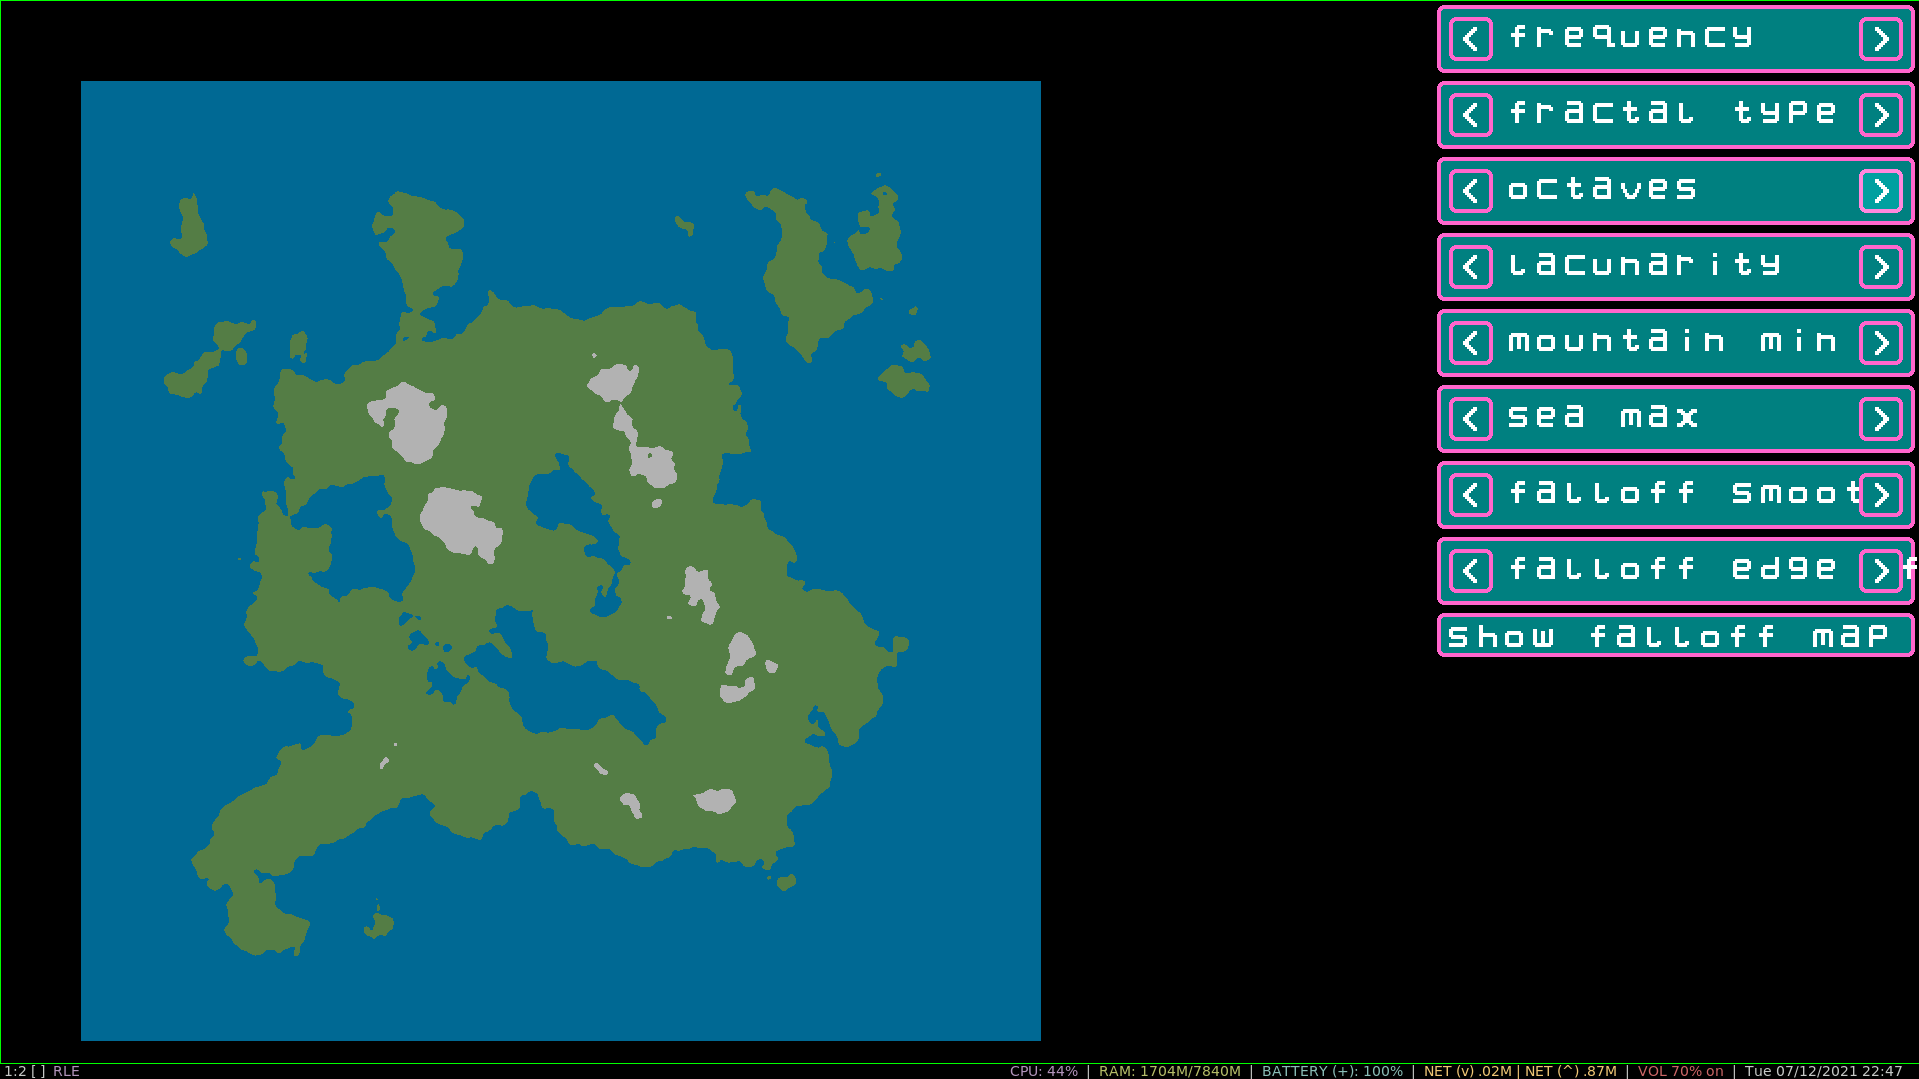
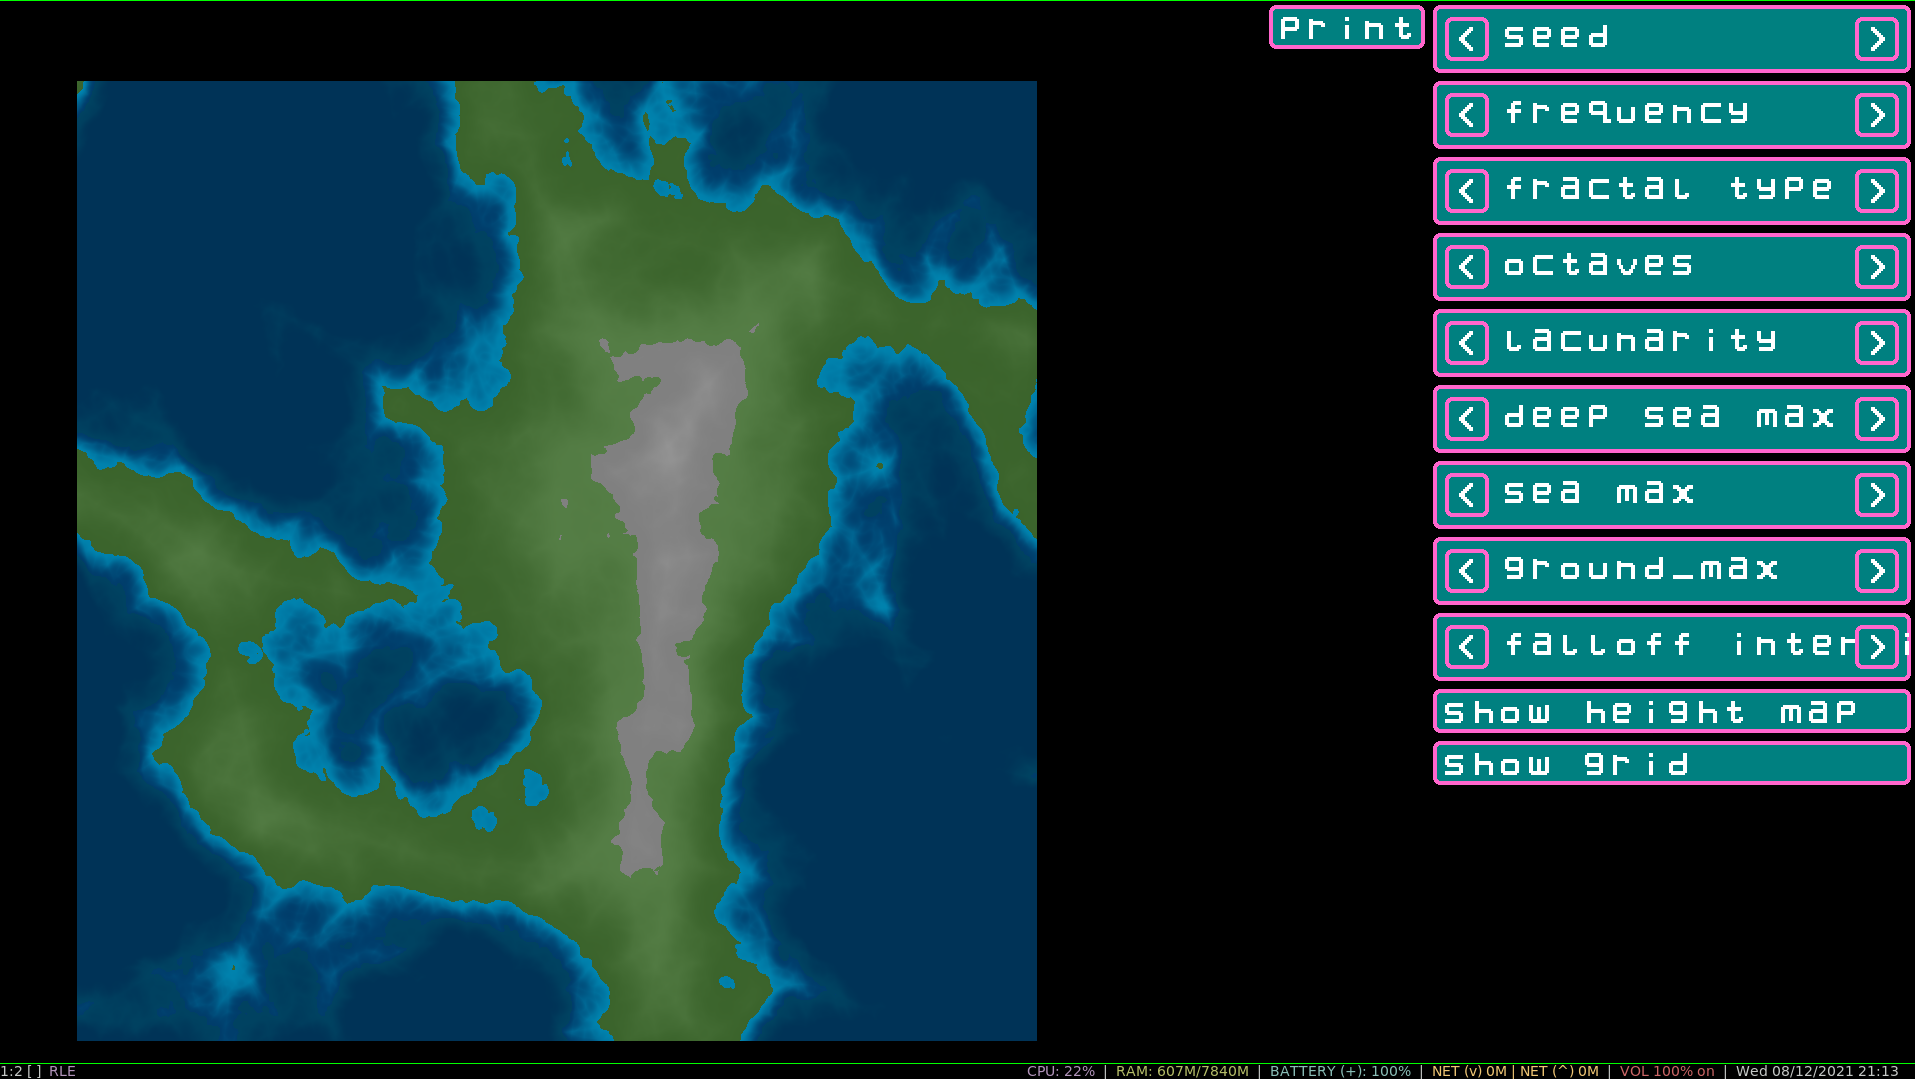
add smooth colours to the heightmap & change to using a circle for the fall off map
also add deep_sea_max setting, a grid that is computed in the shader & the ability to see the height map in grayscale

diff --git a/src/game.c b/src/game.c
@@ -19,10 +19,39 @@ HeroUIImageId game_ui_ascii_image(U8 byte) {
 }
 
 void game_logic_init(void) {
-	game.global_ubo.mountain_min = 0.69;
-	game.global_ubo.sea_max = 0.3;
-	game.falloff_map_smooth_size = 3.f;
-	game.falloff_map_edge_offset = 2.2f;
+	game.noise_state = fnlCreateState();
+	switch (1) {
+		case 0:
+		game.noise_state.frequency = 0.001000;
+		game.noise_state.fractal_type = 1;
+		game.noise_state.octaves = 7;
+		game.noise_state.lacunarity = 2.160000;
+		game.global_ubo.deep_sea_max = 0.100000;
+		game.global_ubo.sea_max = 0.200000;
+		game.global_ubo.ground_max = 0.490000;
+		game.falloff_map_intensity = 50.000000;
+		break;
+		case 1:
+		game.noise_state.frequency = 0.001000;
+		game.noise_state.fractal_type = 2;
+		game.noise_state.octaves = 7;
+		game.noise_state.lacunarity = 1.900000;
+		game.global_ubo.deep_sea_max = 0.100000;
+		game.global_ubo.sea_max = 0.200000;
+		game.global_ubo.ground_max = 0.540000;
+		game.falloff_map_intensity = 10.0;
+		break;
+		case 2:
+		game.noise_state.frequency = 0.001000;
+		game.noise_state.fractal_type = 1;
+		game.noise_state.octaves = 7;
+		game.noise_state.lacunarity = 2.160000;
+		game.global_ubo.deep_sea_max = 0.100000;
+		game.global_ubo.sea_max = 0.200000;
+		game.global_ubo.ground_max = 0.490000;
+		game.falloff_map_intensity = 50.000000;
+		break;
+	}
 }
 
 Vec2 game_ui_text_size(HeroUIWindow* window, HeroString string, F32 wrap_at_width, HeroUIWidgetStyle* style) {
@@ -146,15 +175,8 @@ void game_ui_value_adjuster_i(HeroUIWindow* window, HeroUIWidgetSibId sib_id, He
 	hero_ui_box_end(window);
 }
 
-//
-// max must be in the range of 0.f to 1.f
-F32 game_falloff_map_generate_at(F32 max) {
-	F32 edge = game.falloff_map_smooth_size;
-	F32 offset = game.falloff_map_edge_offset;
-
-	F32 pow_edge = powf(max, edge);
-
-	return pow_edge / (pow_edge + powf(offset - (offset * max), edge));
+float signed_distance_circle(Vec2 coord, float radius) {
+	return vec2_len(coord) - radius;
 }
 
 void game_logic_update(void) {
@@ -163,26 +185,42 @@ void game_logic_update(void) {
 	HeroUIWindow* window = hero_ui_window_start(game.ui_window_id, game.gfx.render_width, game.gfx.render_height);
 
 	fnl_state noise_state = game.noise_state;
-	F32 falloff_map_smooth_size = game.falloff_map_smooth_size;
-	F32 falloff_map_edge_offset = game.falloff_map_edge_offset;
-	int show_falloff_map = game.global_ubo.show_falloff_map;
+	F32 falloff_map_intensity = game.falloff_map_intensity;
 
 	hero_ui_box_start(window, __LINE__, HERO_UI_CUT_RIGHT, HERO_UI_LEN_AUTO, NULL);
 
+		game_ui_value_adjuster_i(window, __LINE__, HERO_UI_CUT_TOP, hero_string_lit("seed"), &game.noise_state.seed, 1);
 		game_ui_value_adjuster_f(window, __LINE__, HERO_UI_CUT_TOP, hero_string_lit("frequency"), &game.noise_state.frequency, 0.001f);
 		game_ui_value_adjuster_i(window, __LINE__, HERO_UI_CUT_TOP, hero_string_lit("fractal type"), (int*)&game.noise_state.fractal_type, 1);
 		game_ui_value_adjuster_i(window, __LINE__, HERO_UI_CUT_TOP, hero_string_lit("octaves"), &game.noise_state.octaves, 1);
-		game_ui_value_adjuster_f(window, __LINE__, HERO_UI_CUT_TOP, hero_string_lit("lacunarity"), &game.noise_state.lacunarity, 0.1f);
+		game_ui_value_adjuster_f(window, __LINE__, HERO_UI_CUT_TOP, hero_string_lit("lacunarity"), &game.noise_state.lacunarity, 0.01f);
 
-		game_ui_value_adjuster_f(window, __LINE__, HERO_UI_CUT_TOP, hero_string_lit("mountain min"), &game.global_ubo.mountain_min, 0.1f);
-		game_ui_value_adjuster_f(window, __LINE__, HERO_UI_CUT_TOP, hero_string_lit("sea max"), &game.global_ubo.sea_max, 0.1f);
-
-		game_ui_value_adjuster_f(window, __LINE__, HERO_UI_CUT_TOP, hero_string_lit("falloff smooth size"), &game.falloff_map_smooth_size, 0.25f);
-		game_ui_value_adjuster_f(window, __LINE__, HERO_UI_CUT_TOP, hero_string_lit("falloff edge offset"), &game.falloff_map_edge_offset, 0.25f);
+		game_ui_value_adjuster_f(window, __LINE__, HERO_UI_CUT_TOP, hero_string_lit("deep sea max"), &game.global_ubo.deep_sea_max, 0.01f);
+		game_ui_value_adjuster_f(window, __LINE__, HERO_UI_CUT_TOP, hero_string_lit("sea max"), &game.global_ubo.sea_max, 0.01f);
+		game_ui_value_adjuster_f(window, __LINE__, HERO_UI_CUT_TOP, hero_string_lit("ground_max"), &game.global_ubo.ground_max, 0.01f);
+		game_ui_value_adjuster_f(window, __LINE__, HERO_UI_CUT_TOP, hero_string_lit("falloff intensity"), &game.falloff_map_intensity, 10.f);
 
 		HeroUIWidgetId widget_id;
-		widget_id = hero_ui_text_toggle_button(window, __LINE__, HERO_UI_CUT_TOP, HERO_UI_LEN_AUTO, hero_string_lit("show falloff map"), hero_ui_ss.button);
-		game.global_ubo.show_falloff_map = !!(hero_ui_widget_state(window, widget_id) & HERO_UI_WIDGET_STATE_ACTIVE);
+		widget_id = hero_ui_text_toggle_button(window, __LINE__, HERO_UI_CUT_TOP, HERO_UI_LEN_AUTO, hero_string_lit("show height map"), hero_ui_ss.button);
+		game.global_ubo.show_height_map = !!(hero_ui_widget_state(window, widget_id) & HERO_UI_WIDGET_STATE_ACTIVE);
+
+		widget_id = hero_ui_text_toggle_button(window, __LINE__, HERO_UI_CUT_TOP, HERO_UI_LEN_AUTO, hero_string_lit("show grid"), hero_ui_ss.button);
+		game.global_ubo.show_grid = !!(hero_ui_widget_state(window, widget_id) & HERO_UI_WIDGET_STATE_ACTIVE);
+	hero_ui_box_end(window);
+
+	hero_ui_box_start(window, __LINE__, HERO_UI_CUT_RIGHT, HERO_UI_LEN_AUTO, NULL);
+		widget_id = hero_ui_text_button(window, __LINE__, HERO_UI_CUT_TOP, HERO_UI_LEN_AUTO, hero_string_lit("print"), hero_ui_ss.button);
+		if (hero_ui_focus_state(window, widget_id) & HERO_UI_FOCUS_STATE_RELEASED) {
+			printf("game.noise_state.seed = %u\n", game.noise_state.seed);
+			printf("game.noise_state.frequency = %f\n", game.noise_state.frequency);
+			printf("game.noise_state.fractal_type = %u\n", game.noise_state.fractal_type);
+			printf("game.noise_state.octaves = %u\n", game.noise_state.octaves);
+			printf("game.noise_state.lacunarity = %f\n", game.noise_state.lacunarity);
+			printf("game.global_ubo.ground_max = %f\n", game.global_ubo.ground_max);
+			printf("game.global_ubo.sea_max = %f\n", game.global_ubo.sea_max);
+			printf("game.falloff_map_intensity = %f\n", game.falloff_map_intensity);
+			printf("\n");
+		}
 	hero_ui_box_end(window);
 
 	hero_ui_window_end(window);
@@ -194,9 +232,7 @@ void game_logic_update(void) {
 	if (
 		!init ||
 		!HERO_CMP_ELMT(&noise_state, &game.noise_state) ||
-		falloff_map_smooth_size != game.falloff_map_smooth_size ||
-		falloff_map_edge_offset != game.falloff_map_edge_offset ||
-		show_falloff_map != game.global_ubo.show_falloff_map
+		falloff_map_intensity != game.falloff_map_intensity
 	) {
 		init += 1;
 		F32* pixels;
@@ -204,15 +240,11 @@ void game_logic_update(void) {
 
 		for_range(y, 0, 960) {
 			for_range(x, 0, 960) {
-				F32 height = 0.f;
-				F32 falloff_x = (((F32)x / 960.f) * 2.f) - 1.f;
-				F32 falloff_y = (((F32)y / 960.f) * 2.f) - 1.f;
-				if (game.global_ubo.show_falloff_map) {
-					height = game_falloff_map_generate_at(HERO_MAX(fabsf(falloff_x), fabsf(falloff_y)));
-				} else {
-					height = fnlGetNoise2D(&game.noise_state, x, y) * 0.5f + 0.5f; // convert to 0.0 - 1.0 from -1.0 - 1.0
-					height -= game_falloff_map_generate_at(HERO_MAX(fabsf(falloff_x), fabsf(falloff_y)));
-				}
+				//F32 falloff_height = game_falloff_map_generate_at(HERO_MAX(falloff_x, falloff_y));
+				float scale = 1.f / 960.f;
+				F32 falloff_height = (vec2_len(vec2_sub(VEC2_INIT(x, y), VEC2_INIT(480.f, 480.f))) + game.falloff_map_intensity) * scale;
+				F32 height = fnlGetNoise2D(&game.noise_state, x, y) * 0.5f + 0.5f; // convert to 0.0 - 1.0 from -1.0 - 1.0
+				height -= falloff_height;
 
 				pixels[y * 960 + x] = height;
 			}
@@ -907,9 +939,6 @@ void game_init(void) {
 	}
 
 	game_logic_init();
-
-	game.noise_state = fnlCreateState();
-	game.noise_state.fractal_type = 1;
 }
 
 int main(int argc, char** argv) {

diff --git a/src/shaders/basic_shared.h b/src/shaders/basic_shared.h
@@ -8,9 +8,11 @@
 
 HERO_UNIFORM_BUFFER(GameBasicGlobalUBO, HERO_GFX_DESCRIPTOR_SET_GLOBAL, GAME_BASIC_GLOBAL_BINDING_GLOBAL_UBO) {
 	Mat4x4 mvp;
-	float mountain_min;
+	float deep_sea_max;
 	float sea_max;
-	int show_falloff_map;
+	float ground_max;
+	int show_height_map;
+	int show_grid;
 };
 
 #ifdef HERO_GLSL

diff --git a/src/game.h b/src/game.h
@@ -106,8 +106,7 @@ struct Game {
 	GameGfx gfx;
 	fnl_state noise_state;
 	GameBasicGlobalUBO global_ubo;
-	F32 falloff_map_smooth_size;
-	F32 falloff_map_edge_offset;
+	F32 falloff_map_intensity;
 };
 
 extern Game game;
